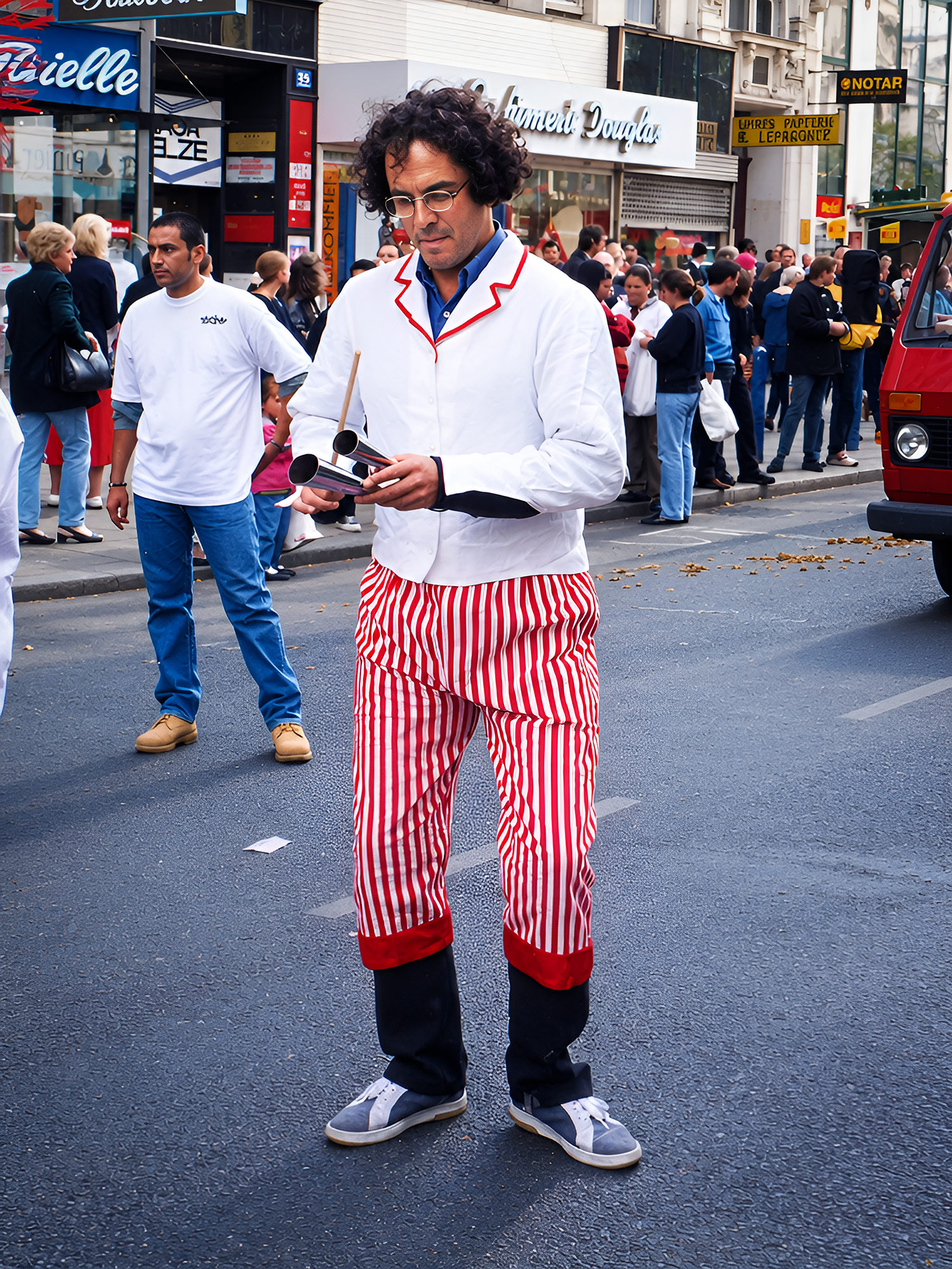
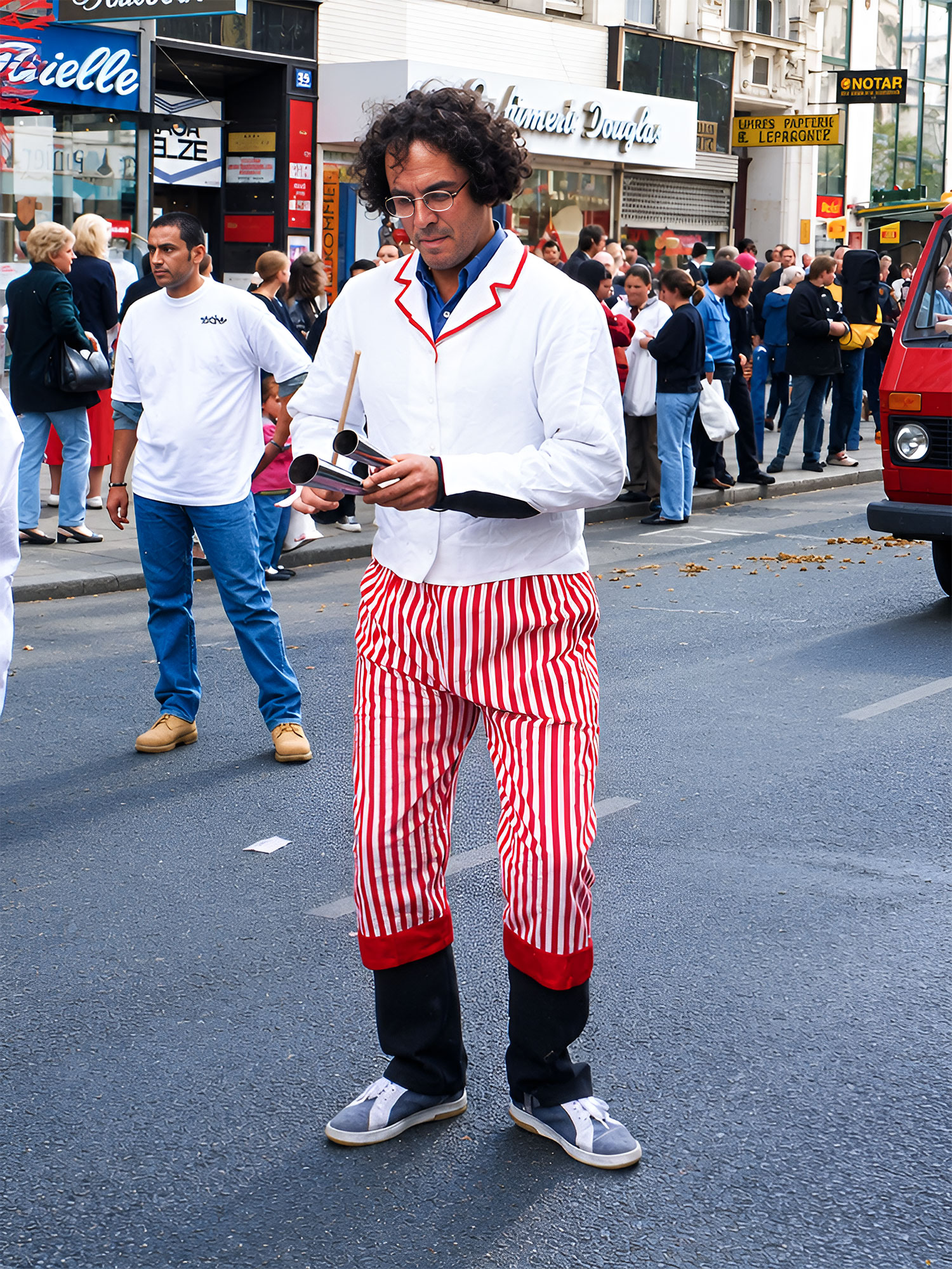
u

diff --git a/vienna-austria.html b/vienna-austria.html
@@ -120,7 +120,7 @@
 		<figure>
 			<a href="https://bittencourt.pages.dev/media/paulo-bittencourt-13.jpg" target="_blank"><img style="margin-top: 30px; border-radius: 4px" alt="Paulo Bittencourt, playing agogô (an Afro-Brazilian instrument) in a parade of traditional music from different cultures, in Vienna, Austria (1996)" src="https://bittencourt.pages.dev/media/paulo-bittencourt-13.jpg"></a>
 			<figcaption class="vienna no-indent">
-				Playing agogô (an Afro-Brazilian instrument) in a parade of traditional music from different cultures, in Vienna (1996).
+				Playing agogô (an Afro-Brazilian musical instrument) in a parade of traditional music from different cultures, in Vienna (1996).
 			</figcaption>
 		</figure>
 		<figure>
